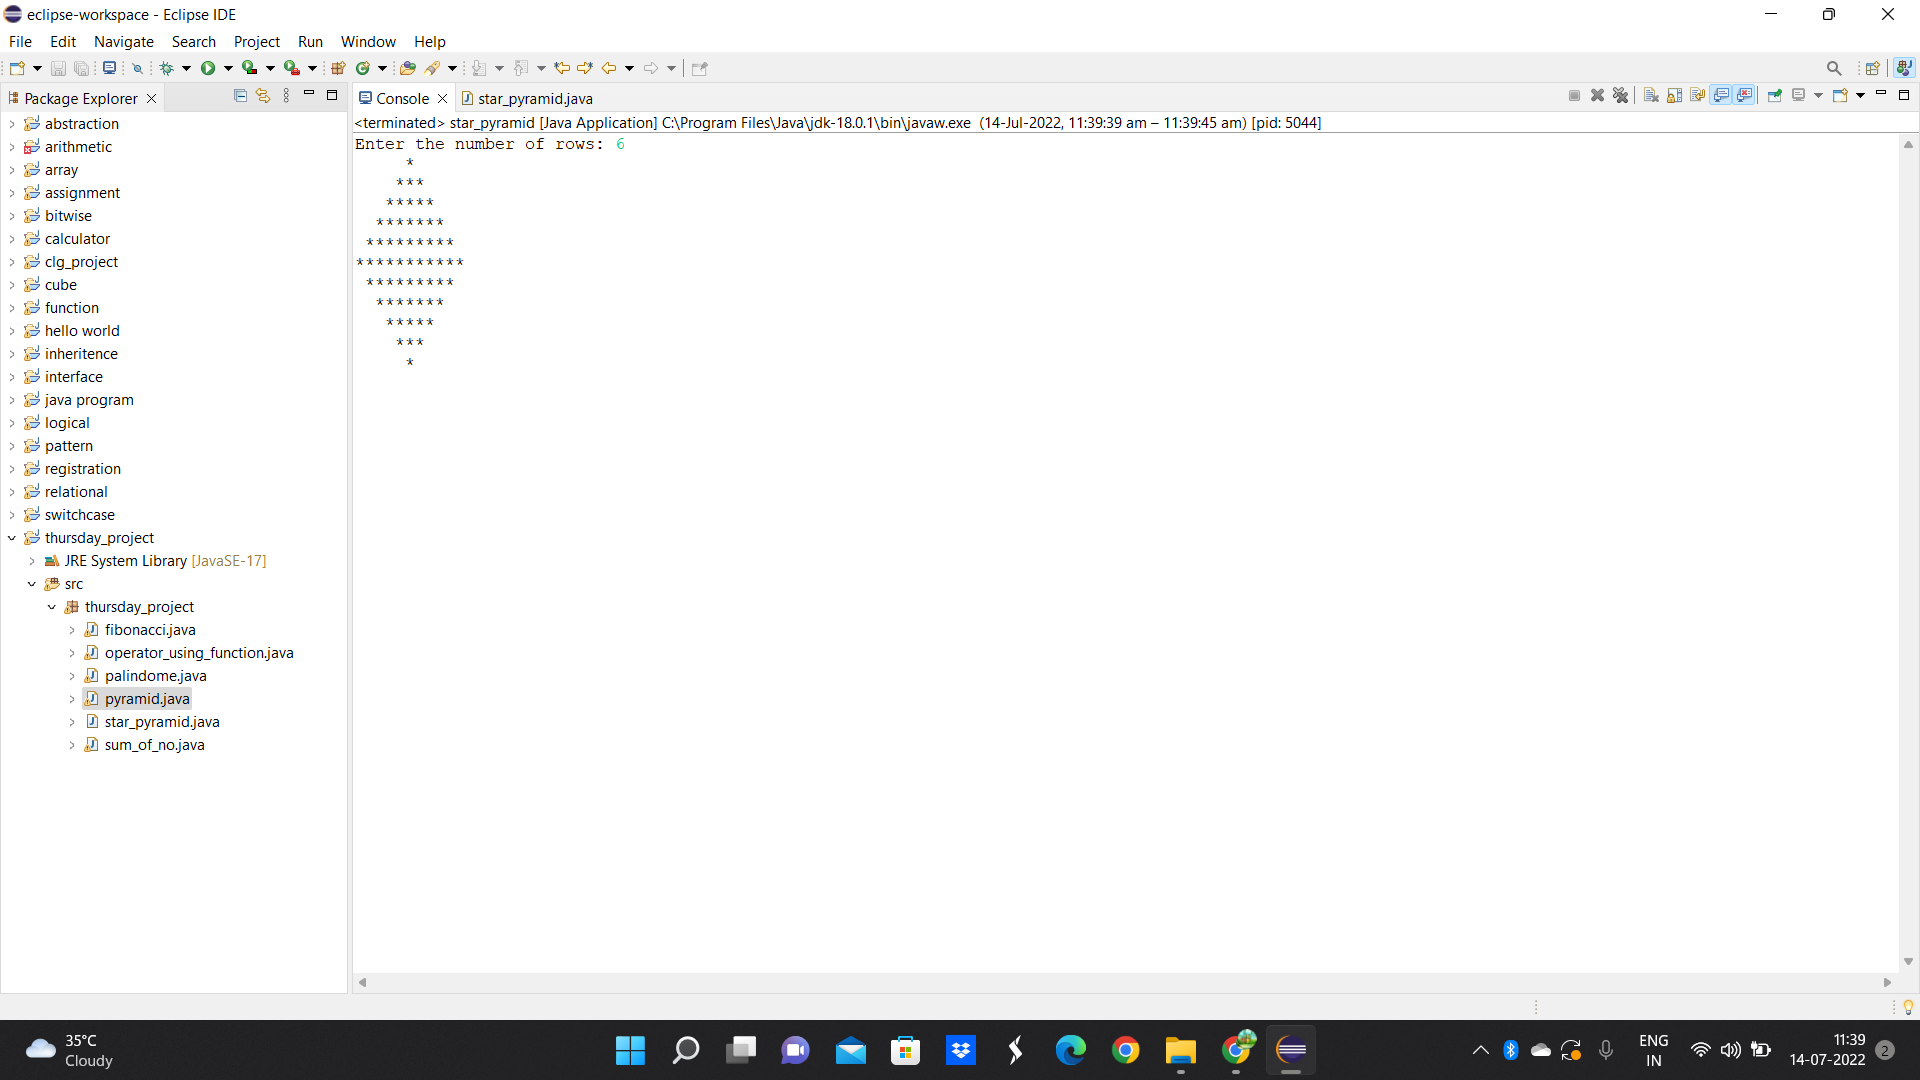
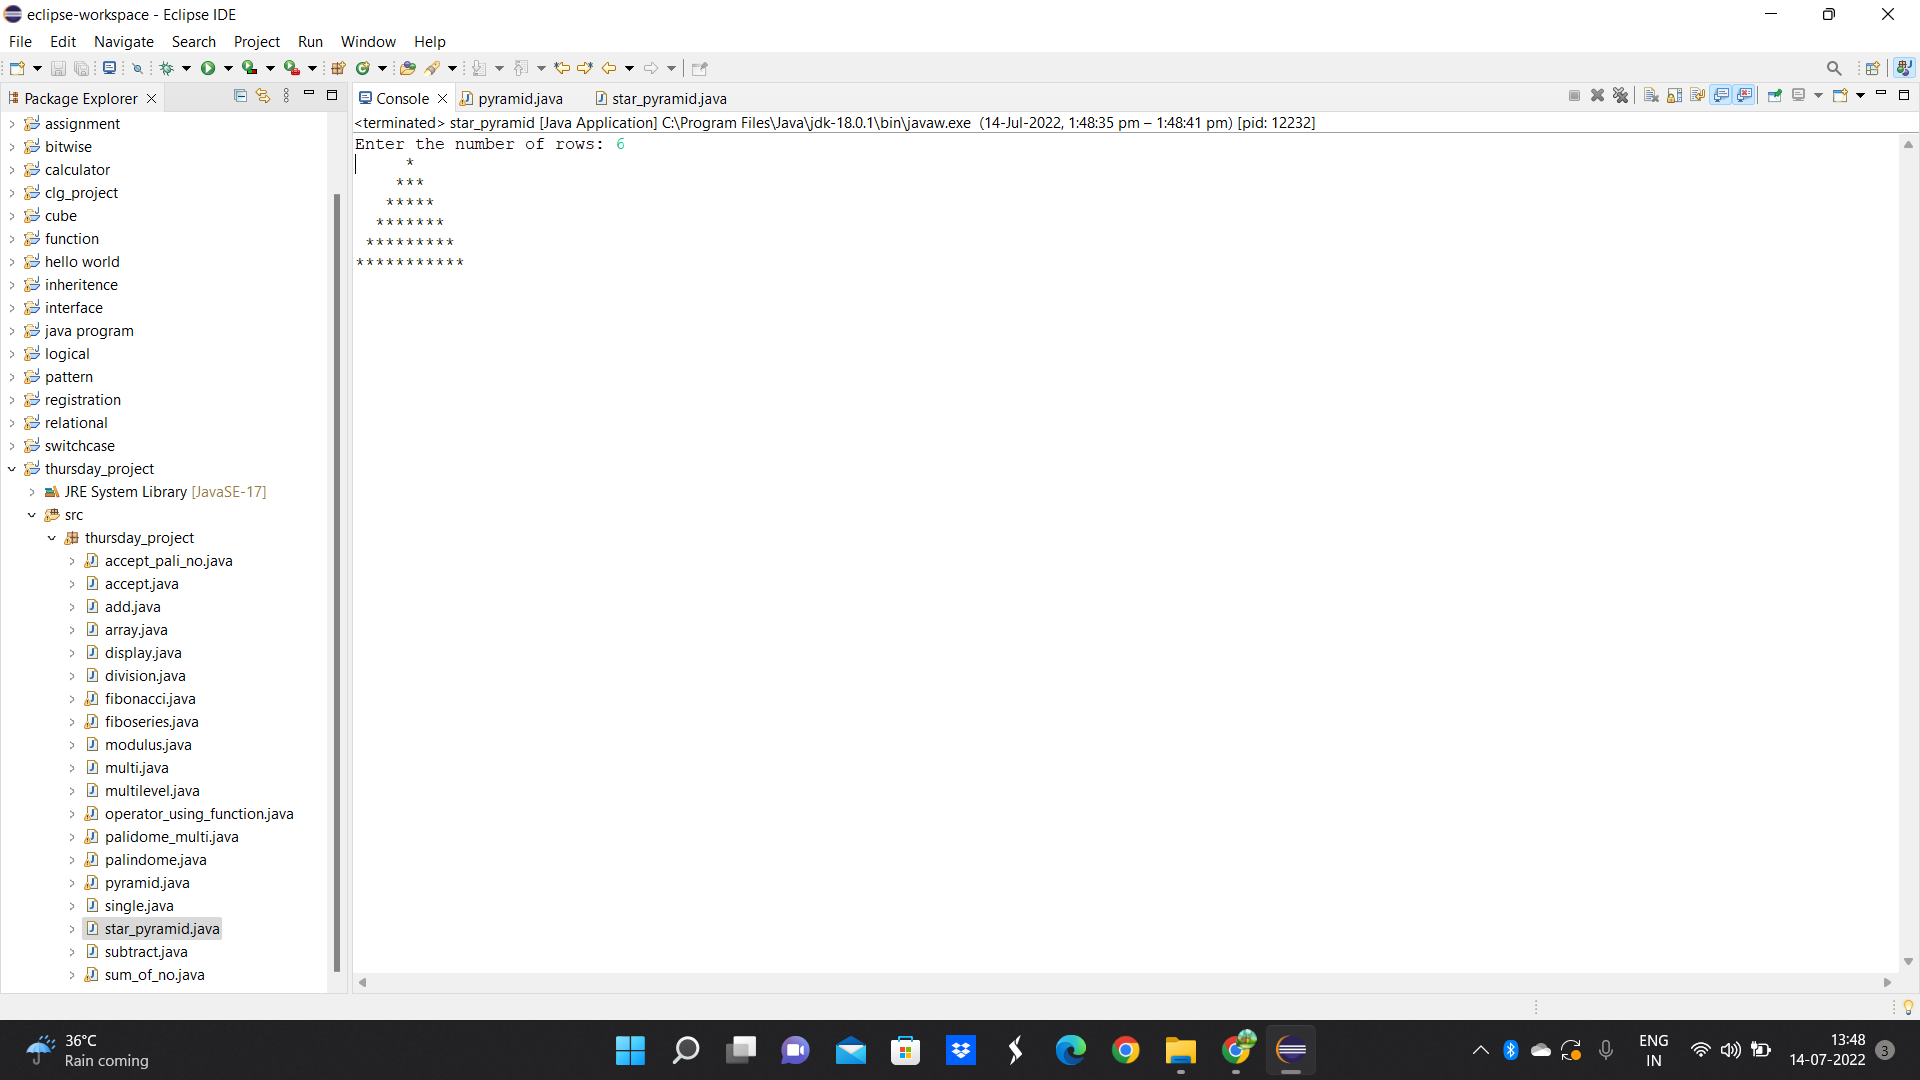
Add files via upload

diff --git a/thursday project/pyramid/star/star_pyramid.java b/thursday project/pyramid/star/star_pyramid.java
@@ -24,18 +24,5 @@ public class star_pyramid {
 		}
 		System.out.println("");
 		}
-		space = 1;
-		for (j = 1; j<= n - 1; j++)
-		{
-		for (i = 1; i<= space; i++)
-		{
-		System.out.print(" ");
-		}
-		space++;
-		for (i = 1; i<= 2 * (n - j) - 1; i++)
-		{
-		System.out.print("*");
-		}
-		System.out.println("");
-		}}
+	}
 }
